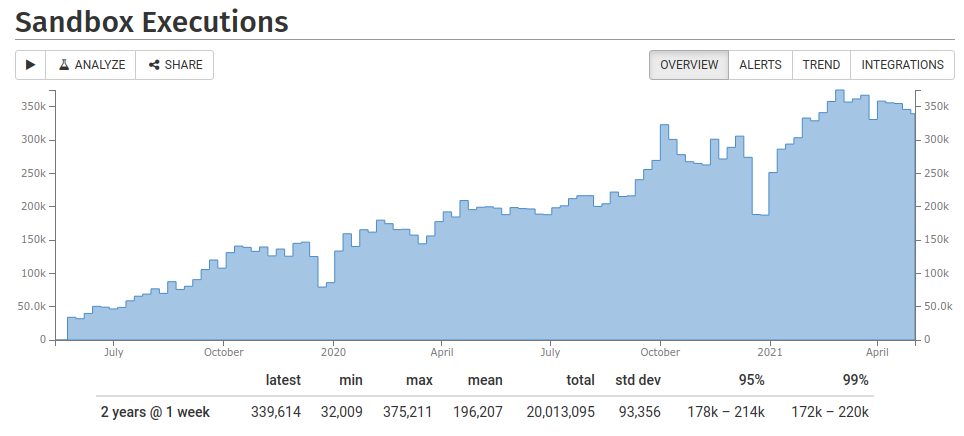
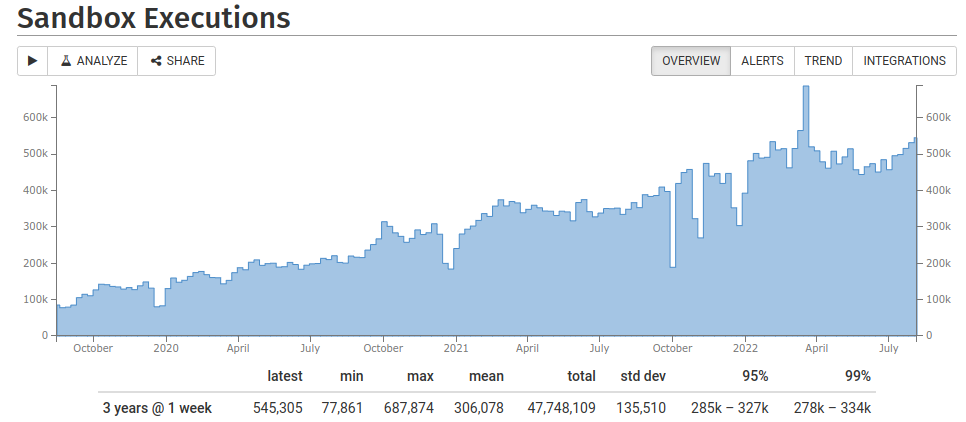
Aquatic

diff --git a/index.html b/index.html
@@ -204,9 +204,8 @@
     <div class="slides">
         <section data-background="images/bg/gray-lake_8440283318_o.jpg">
             <div class="white-bg">
-                <h3>The State of Compiler Explorer</h3>
-                <h5>Matt Godbolt <br/><a href="https://twitter.com/mattgodbolt">@mattgodbolt</a><br>
-                    North Denver Metro C++ Meetup<br>13<sup>th</sup> May 2021</h5>
+                <h3>CE: Behind the Scenes</h3>
+                <h5><a href="https://twitter.com/mattgodbolt">@mattgodbolt</a><br>
             </div>
         </section>
         <section data-markdown="intro.md" data-separator-vertical="^---\n" data-separator="---disabled---"
@@ -227,7 +226,7 @@
         -->
     </div>
     <div class="footer">
-        &copy; <a href="https://twitter.com/mattgodbolt">Matt Godbolt</a> 2019
+        &copy; <a href="https://twitter.com/mattgodbolt">Matt Godbolt</a> 2022
         <a href="https://creativecommons.org/licenses/by-nc-sa/2.0/">CC BY-NC-SA 2.0</a><br>
         Background images &copy; <a href="https://twitter.com/romainguy">Romain Guy</a>
         <a href="https://creativecommons.org/licenses/by-nc-sa/2.0/">CC BY-NC-SA 2.0</a>

diff --git a/behind.md b/behind.md
@@ -15,8 +15,9 @@
 * node.js
 * Amazon Web Services
 * CloudFront / Load Balancers
-* 2-16 EC2 instances
+* 3-16 EC2 instances
 * EFS / S3 / DynamoDb
+* Custom GH runners
 
 </div><!-- .element: class="white-bg" -->
 
@@ -44,7 +45,7 @@
 
 ## CE stats
 
-[Live stats](https://ce.grafana.net) (sadly not public)
+[Live stats](https://ce.grafana.net) (sadly not public...yet)
 
 </div><!-- .element: class="white-bg" -->
 
@@ -54,11 +55,11 @@
 
 ## CE stats
 
-* 2,500,000 compiles per week
-* 4.3/sec average
+* 3,000,000 compiles per week
+* 5/sec average
 * 10/sec peak
 * 600,000 executions per week
-* 8,000 short URLs per week
+* 6,000 short URLs per week
 
 </div><!-- .element: class="white-bg" -->
 
@@ -68,14 +69,15 @@
 
 ## Compiler stats
 
-* 600+ compilers
-* 0.77TB
+* 800+ compilers
+* 1.2TB
 
 <div class="lang-container">
 <div>Ada</div>
 <div>Analysis</div>
 <div>Assembly</div>
 <div>C</div>
+<div>Carbon</div>
 <div>C++ ("Cppx", "gold", "blue")</div>
 <div>Clean</div>
 <div>CUDA</div>

diff --git a/intro.md b/intro.md
@@ -1,29 +1,5 @@
 <div class="white-bg">
 
-### The State of Compiler Explorer
-
-<div class="w50">
-
-#### Illinois
-
-* Capital: Springfield
-* Population: 12.67 million
-* 25<sup>th</sup> largest area
-
-</div>
-
-<div class="w50">
-
-![Illinois](images/illinois.png)<!-- .element: class="no-border" height="400px"-->
-
-</div>
-
-</div>
-
----
-    
-<div class="white-bg">
-
 ### About me
 
 * Decade of making console games
@@ -76,8 +52,6 @@ watch "g++ /tmp/test.cc -std=c++0x -O2 -c -S -o - -masm=intel \
 ---
 
 ### GCC Explorer!
+
 <!-- .element: class="white-bg" -->
 ![First version](images/first_working.png)<!-- .element: height="470" class="no-border" -->
-
-
----
